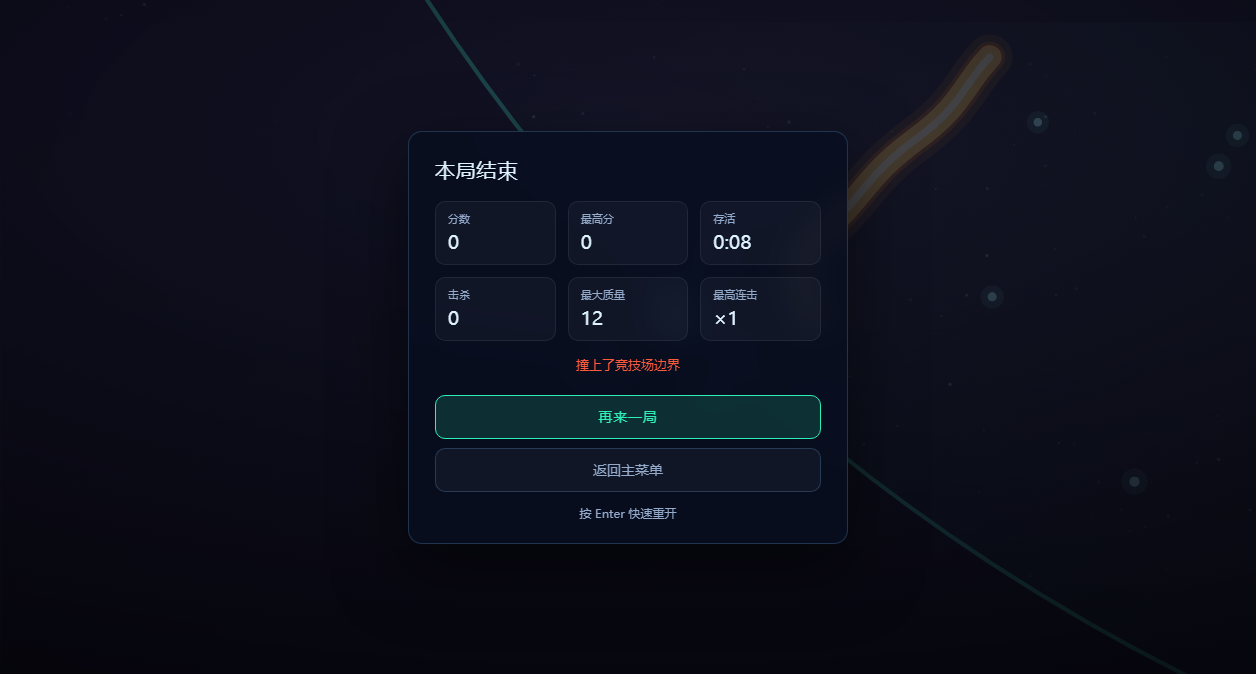
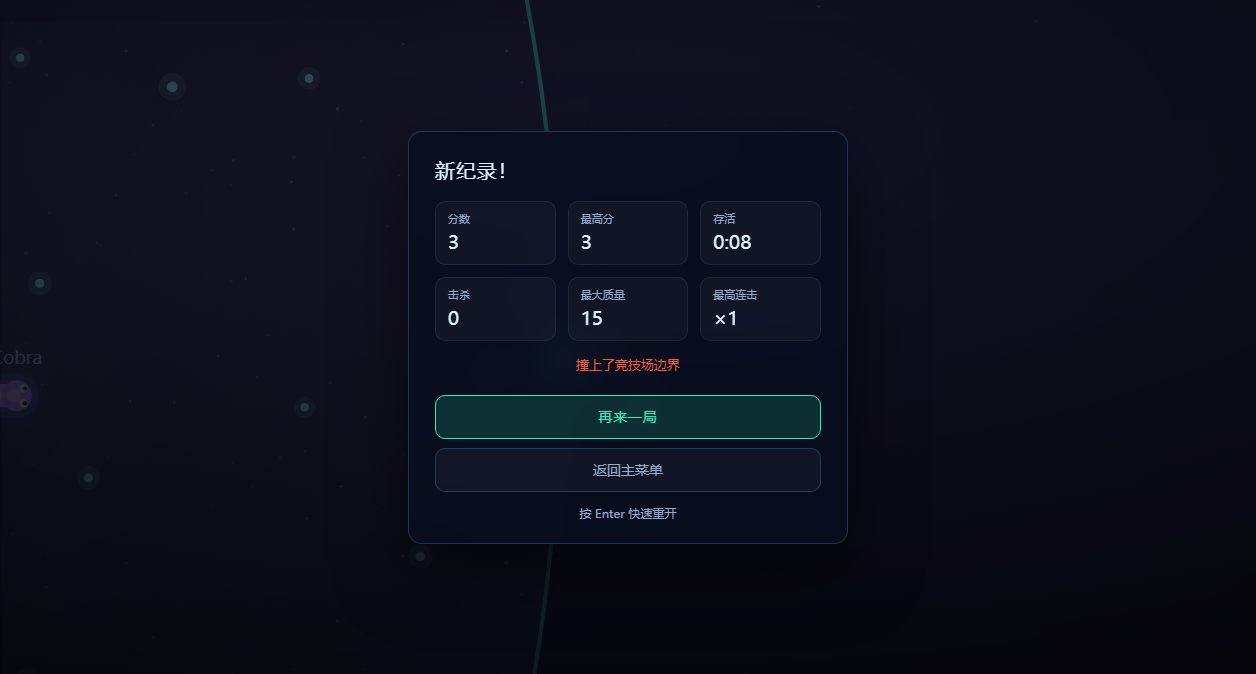
fix(score): 分数统一取整展示；修正端到端断言的不确定性
真实缺陷
- 宝石掉落按「总价值 ÷ 球数」均分，再乘连击倍率，world.score 天然是浮点数，
  而 HUD / 结算面板 / 主菜单最高分三处都用 String() 直出，
  玩家可能看到 "73.33333333333333" 这样的脏小数。
- 新增 core/format.js 的 formatScore()（非有限值归 0，其余取整），
  上述三处统一改用它；tests/format.test.js 补 2 条回归测试。

测试确定性（原断言依赖随机地形，会偶发假红）
- 「可继续游戏」原本断言"恢复后蛇还活着"。暂停会把世界冻在半空，
  若蛇正朝陨石/对手冲，恢复后数百毫秒内死亡完全正常（高频复现 4/30）。
  改为断言机制：轮询至 mode 离开 paused 且 elapsed 重新前进。
- 「AI 对手数量符合难度预设」原本断言"此刻恰好存活 4 个"，
  而对手撞陨石后延迟重生。快照新增配置常量 botTarget，
  改断言 botTarget === 4 && 1 <= aliveBots <= botTarget。
- 定位过程用事件记录器排除了 visibilitychange / blur 自动暂停假设，
  并以 .artifacts/probe.mjs（不入库）做 30 轮高频复现确认根因。

验证：check 34 文件 / 97 链接 0 失败；test 75/75；smoke 连跑 5 次全绿 50/50。

diff --git a/src/ui/screens.js b/src/ui/screens.js
@@ -1,7 +1,7 @@
 import { THEME_LIST } from '../render/theme.js'
 import { ACHIEVEMENTS } from '../game/achievements.js'
 import { POWERUP_TYPES, POWERUP_INFO } from '../config.js'
-import { formatTime } from '../core/format.js'
+import { formatTime, formatScore } from '../core/format.js'
 
 /** 玩法说明中的道具条目直接由 POWERUP_INFO 生成，避免说明与实现各写一份文案。 */
 function powerupHelpText() {
@@ -133,7 +133,7 @@ export function createScreens(root, opts) {
     },
     renderAchievements,
     refreshMeta() {
-      $('#menu-best').textContent = String(opts.getBest())
+      $('#menu-best').textContent = formatScore(opts.getBest())
       $('#menu-ach').textContent = `${opts.getUnlocked().size}/${ACHIEVEMENTS.length}`
     },
     /** 设置被程序化修改（例如自适应降档）后同步 UI 选中态。 */
@@ -146,8 +146,8 @@ export function createScreens(root, opts) {
     },
     showGameOver({ score, best, isRecord, elapsed, kills, mass, combo, cause }) {
       $('#over-title').textContent = isRecord ? '新纪录！' : '本局结束'
-      $('#over-score').textContent = String(score)
-      $('#over-best').textContent = String(best)
+      $('#over-score').textContent = formatScore(score)
+      $('#over-best').textContent = formatScore(best)
       $('#over-time').textContent = formatTime(elapsed)
       $('#over-kills').textContent = String(kills)
       $('#over-mass').textContent = String(Math.floor(mass))

diff --git a/tests/format.test.js b/tests/format.test.js
@@ -1,6 +1,6 @@
 import { test } from 'node:test'
 import assert from 'node:assert/strict'
-import { formatTime } from '../src/core/format.js'
+import { formatTime, formatScore } from '../src/core/format.js'
 
 test('formatTime 统一输出 m:ss 并做边界收敛', () => {
   assert.equal(formatTime(0), '0:00')
@@ -17,4 +17,25 @@ test('formatTime 对脏输入不产生 NaN', () => {
   assert.equal(formatTime(NaN), '0:00')
   assert.equal(formatTime(undefined), '0:00')
   assert.equal(formatTime('42'), '0:42')
+})
+
+test('formatScore 把宝石均分产生的浮点分数收敛为整数展示（回归防护）', () => {
+  // 宝石价值 = 掉落总价值 / 球数，天然是分数；连击倍率再乘上去。
+  assert.equal(formatScore(0), '0')
+  assert.equal(formatScore(1), '1')
+  assert.equal(formatScore(5.5), '6')
+  assert.equal(formatScore(73.33333333333333), '73')
+  assert.equal(formatScore(12.5), '13')
+  // 绝不出现小数点 / 科学计数法 / NaN（1e21 以上会退化成指数记法，
+  // 但一局贪吃蛇的分数不可能到达那个量级，因此不为其增加复杂度）
+  for (const bad of [73.33333333333333, 5.5, 999999.6, 0.4]) {
+    assert.match(formatScore(bad), /^\d+$/)
+  }
+})
+
+test('formatScore 对脏输入不产生 NaN', () => {
+  assert.equal(formatScore(NaN), '0')
+  assert.equal(formatScore(undefined), '0')
+  assert.equal(formatScore(-9), '0')
+  assert.equal(formatScore('120'), '120')
 })

diff --git a/src/ui/hud.js b/src/ui/hud.js
@@ -1,7 +1,7 @@
 import { POWERUP_COLORS } from '../render/renderer.js'
 import { POWERUP_TYPES, POWERUP_INFO } from '../config.js'
 import { clamp, TAU } from '../core/math.js'
-import { formatTime } from '../core/format.js'
+import { formatTime, formatScore } from '../core/format.js'
 
 const MINIMAP_FPS_DIVIDER = 4
 
@@ -145,7 +145,7 @@ export function createHud(root) {
       const player = world.player
       if (world.score !== lastScore) {
         lastScore = world.score
-        el.score.textContent = String(world.score)
+        el.score.textContent = formatScore(world.score)
       }
       el.mass.textContent = String(Math.floor(player.mass))
       el.time.textContent = formatTime(world.elapsed)

diff --git a/src/core/format.js b/src/core/format.js
@@ -5,3 +5,17 @@ export function formatTime(seconds) {
   const s = Math.max(0, Math.floor(Number(seconds) || 0))
   return `${Math.floor(s / 60)}:${String(s % 60).padStart(2, '0')}`
 }
+
+/**
+ * 分数 → 展示用整数串。
+ *
+ * 分数内部是浮点数：宝石掉落时按 `总价值 / 球数` 均分，
+ * 连击倍率也参与相乘，于是原始值可能长成 `73.33333333333333`。
+ * 直接 String() 会把这个脏数字糊到 HUD 和结算面板上，因此统一在展示层取整。
+ */
+export function formatScore(value) {
+  const n = Number(value)
+  if (!Number.isFinite(n)) return '0'
+  return String(Math.max(0, Math.round(n)))
+}
+

diff --git a/src/main.js b/src/main.js
@@ -481,6 +481,8 @@ window.__neonSnake = {
       isTouch: input.state.isTouch,
       pathPoints: world.player.path.count,
       aliveBots: world.aliveBots,
+      /** 难度预设的对手总数（配置常量，不随场上死亡/重生波动） */
+      botTarget: world.cfg.botCount,
       particleLimit: renderer.particles.limit,
       unlocked: Array.from(unlocked),
     }

diff --git a/docs/AUDIT.md b/docs/AUDIT.md
@@ -1,4 +1,4 @@
-# 独立上下文审计报告（两轮）
+# 独立上下文审计报告（三轮）
 
 审计方式：把代码交给**全新上下文、未参与编写**的审计代理，只读、禁止修改文件，要求给出 `文件:行号` 级别的证据，并按 P0 / P1 / P2 分级。
 
@@ -6,7 +6,8 @@
 - **P1**：边界情况错误、设计缺陷、测试缺口 —— 应当修
 - **P2**：风格、可读性、微小优化
 
-两轮结束后 **P0 = 0**，用户要求的"直到没有 P0 为止"条件达成。
+第一、二轮为**代理独立审计**；第二轮结束后 **P0 = 0**，用户要求的"直到没有 P0 为止"条件达成。
+第三轮为**提交后复跑的稳定性复核**（由我方驱动，非代理），针对端到端测试自身的确定性。
 
 ---
 
@@ -71,12 +72,39 @@
 
 ---
 
+## 第三轮：提交后重跑，揪出 1 个真实展示 bug + 3 处测试抖动
+
+首次提交 `d638478` 之后按要求复跑冒烟，出现 **1 红**。**没有当成偶发跳过**，而是连跑统计，发现 4 次里红了 3 个**不同**的条目 —— 说明不是单点缺陷，而是"断言本身不确定"。
+
+### 归因过程（先排除假设，再下结论）
+
+1. 最像的假设是"自动暂停竞态"：`main.js` 在 `visibilitychange` 与 `window blur` 时会 `pause()`，无头环境截图/失焦可能误触发。挂上事件记录器重跑 6 次 → **`vis=[]`、blur 一次都没触发**，假设被排除。
+2. 改写高频复现脚本（`.artifacts/probe.mjs`，共 30 轮"暂停→继续"，每 16ms 采样 `mode`）：**4/30 轮出现 `playing → over`**。结论明确 —— 暂停会把世界冻在半空，若蛇正在朝陨石/对手冲，**恢复后几百毫秒内死亡完全正常**，而原断言要求"恢复后仍存活"，等价于要求"这一局刚好没撞上东西"。
+
+### 本轮确认的真实产品缺陷（P1）
+
+| # | 问题 | 证据（修复前） | 根因 | 修复 |
+| --- | --- | --- | --- | --- |
+| 1 | **分数会以脏浮点直出给玩家** | `world.js:523` `const per = total / count`（宝石按"总价值 ÷ 球数"均分），`world.js:591` 再乘连击倍率；而 `hud.js:148`、`screens.js:136/149/150` 全部 `String(...)` 直出 → 面板可能出现 `73.33333333333333` | 展示层没有对内部浮点值取整 | 新增 `core/format.js` 的 `formatScore()`；HUD / 结算 / 主菜单最高分三处统一调用；`tests/format.test.js` 加 2 条回归测试 |
+
+### 本轮修正的测试缺陷（不是产品的错）
+
+| 断言 | 问题 | 改法 |
+| --- | --- | --- |
+| `可继续游戏` | 断言"蛇还活着"，依赖随机地形 → 抖动 | 改断言**机制**：轮询至 `mode !== 'paused'` 且 `elapsed` 前进。死亡同样证明世界已解冻，因此不再依赖运气 |
+| `AI 对手数量符合难度预设` | 断言"此刻恰好存活 4 个"，而对手撞陨石后需延迟重生 | 快照新增配置常量 `botTarget`；改断言 `botTarget === 4 && 1 ≤ aliveBots ≤ botTarget` |
+| `结算面板数值有效（soft）` | `/^\d+$/` 撞上浮点分数 | 由 `formatScore()` 从根上消除 |
+
+> 教训：**端到端断言不能断言随机世界在某一时刻的具体态**，只能断言"机制/不变量"。第一、二轮关注"代码有没有实现功能"，这一轮补上的是"测试本身是否确定"。
+
+---
+
 ## 最终验证状态
 
 ```
-npm run check    34 个文件 / 94 条具名导入链接 / 0 失败
-npm test         73 / 73 通过（新增 8 个针对本轮缺陷的回归测试）
-npm run smoke    50 / 50 通过，hardFail = 0，softFail = 0，无 console 报错
+npm run check    34 个文件 / 97 条具名导入链接 / 0 失败
+npm test         75 / 75 通过（含 2 条 formatScore 回归测试）
+npm run smoke    连跑 5 次全绿：50 / 50，hardFail = 0，softFail = 0，无 console 报错
 ```
 
 冒烟测试覆盖：启动无脚本错误 → 主菜单渲染 → 开始游戏 → 键盘转向/加速 → 触屏按下接管与拖动转向 → 鼠标交互 → Esc 暂停且世界冻结 → 恢复 → 切主题且强调色同步 → 回主菜单 → 吸引模式世界在推进 → 覆盖层 Esc/Enter 不穿透 → 等自然死亡验证结算链路 → 再来一局重置 → 画布确有内容 → 无未捕获异常。

diff --git a/docs/PROGRESS.md b/docs/PROGRESS.md
@@ -63,6 +63,40 @@
 - `package.json` 脚本：`serve` / `check` / `test` / `smoke` / `verify`。
 - `vercel.json`：`{ "version": 2, "cleanUrls": true }`，无需构建命令与输出目录，Framework Preset 选 **Other**。
 
+## 阶段 6 · 提交前的稳定性复核（发现 1 个真实展示 bug + 3 处测试抖动）
+
+首次提交后重跑冒烟，出现 **1 红**（`可继续游戏`）。本以为是偶发，于是**连跑多次统计**，结果 4 次里又红在不同条目上：
+
+| 轮次 | 红掉的断言 |
+| --- | --- |
+| A | `可继续游戏` |
+| B | `AI 对手数量符合难度预设` |
+| C | `结算面板数值有效（soft）` |
+
+### 定位过程（没有靠猜）
+
+1. 先在页面里挂 `visibilitychange` / `blur` / `focus` 事件记录器，重跑 6 次 —— **`vis=[]`、blur 从未触发**，排除了"自动暂停竞态"这个最像的假设。
+2. 转而写了一个**高频复现脚本**（`.artifacts/probe.mjs`，不入库）：30 次"暂停→继续"，每 16ms 采样一次 `mode`。结果 **4/30 次出现 `playing → over`** —— 根本原因水落石出：暂停会把世界冻在半空，如果蛇本来正朝陨石或对手冲，**恢复后几百毫秒内死亡完全正常**。断言 `mode === 'playing'` 就等于断言"这一局刚好没撞上东西"。
+
+### 真实产品 bug（顺手揪出）
+
+`结算面板数值有效` 会偶发失败的根因是**分数是浮点数**：宝石掉落按 `总价值 / 球数` 均分（`world.js` 的 `per = total / count`），再乘连击倍率，于是 `world.score` 可能是 `73.33333333333333`。HUD、结算面板、主菜单最高分三处都在用 `String()` 直出，**玩家会看到一长串脏小数**。
+
+- 修复：新增 `src/core/format.js` 的 `formatScore()`（非有限值 → `0`，其余取整），HUD / 结算 / 主菜单统一走它。
+- 加回归测试：`tests/format.test.js` 断言 `73.33333333333333 → '73'`、`5.5 → '6'`，且结果恒匹配 `/^\d+$/`。
+
+### 测试抖动修复
+
+| 断言 | 问题 | 改法 |
+| --- | --- | --- |
+| `可继续游戏` | 断言"蛇还活着"，依赖随机地形 | 改断言**机制**：轮询直到 `mode !== 'paused'` 且 `elapsed` 前进（死亡同样证明世界已解冻） |
+| `AI 对手数量符合难度预设` | 断言"此刻恰好存活 4 个"，对手撞陨石后延迟重生 | 服务端暴露配置常量 `botTarget`；改断言 `botTarget === 4 && 1 ≤ aliveBots ≤ botTarget` |
+| `结算面板数值有效` | 分数浮点直出 | 由 `formatScore` 从根上消除 |
+
+### 最终验收
+
+`check` 34 文件 / 97 链接 0 失败；`test` **75/75**；`smoke` 连跑 **5 次全绿 50/50**（hardFail=0、softFail=0）。
+
 ## 已知限制
 
 - GitHub 与 Vercel 均已不支持用账号密码做命令行认证（`git push` 需要 Personal Access Token，`vercel login` 需要 token），部署需要用户提供令牌。

diff --git a/README.md b/README.md
@@ -63,7 +63,7 @@ src/
 
 ```bash
 npm run check    # 静态检查：语法 + 具名导入/导出链接（防止"少写一个 export"导致白屏）
-npm test         # 单元测试（73 个，覆盖纯逻辑层）
+npm test         # 单元测试（75 个，覆盖纯逻辑层）
 npm run smoke    # 端到端：用系统自带 Edge/Chrome 无头跑真实页面（50 项断言 + 截图）
 npm run verify   # check + test
 ```
@@ -81,7 +81,7 @@ vercel --prod
 
 - [`docs/RESEARCH.md`](docs/RESEARCH.md) —— 立项前的调研：竞品玩法拆解与 Canvas 性能结论
 - [`docs/DESIGN.md`](docs/DESIGN.md) —— 玩法规格（G-01…G-17）、世界模型、性能与测试计划
-- [`docs/AUDIT.md`](docs/AUDIT.md) —— 两轮独立上下文审计报告与修复清单
+- [`docs/AUDIT.md`](docs/AUDIT.md) —— 三轮审计报告（两轮独立上下文审计 + 一轮提交后稳定性复核）与修复清单
 - [`docs/PROGRESS.md`](docs/PROGRESS.md) —— 开发过程记录
 
 ## 许可
